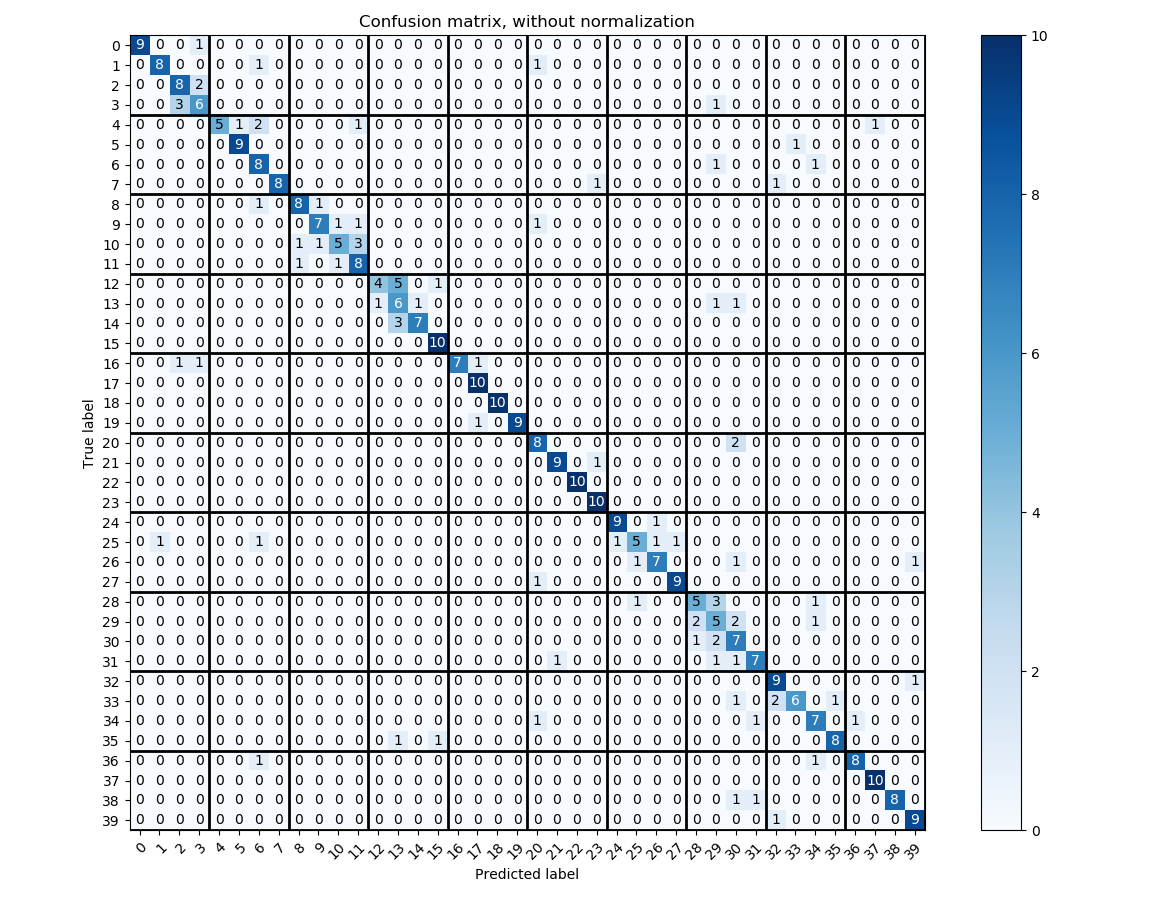
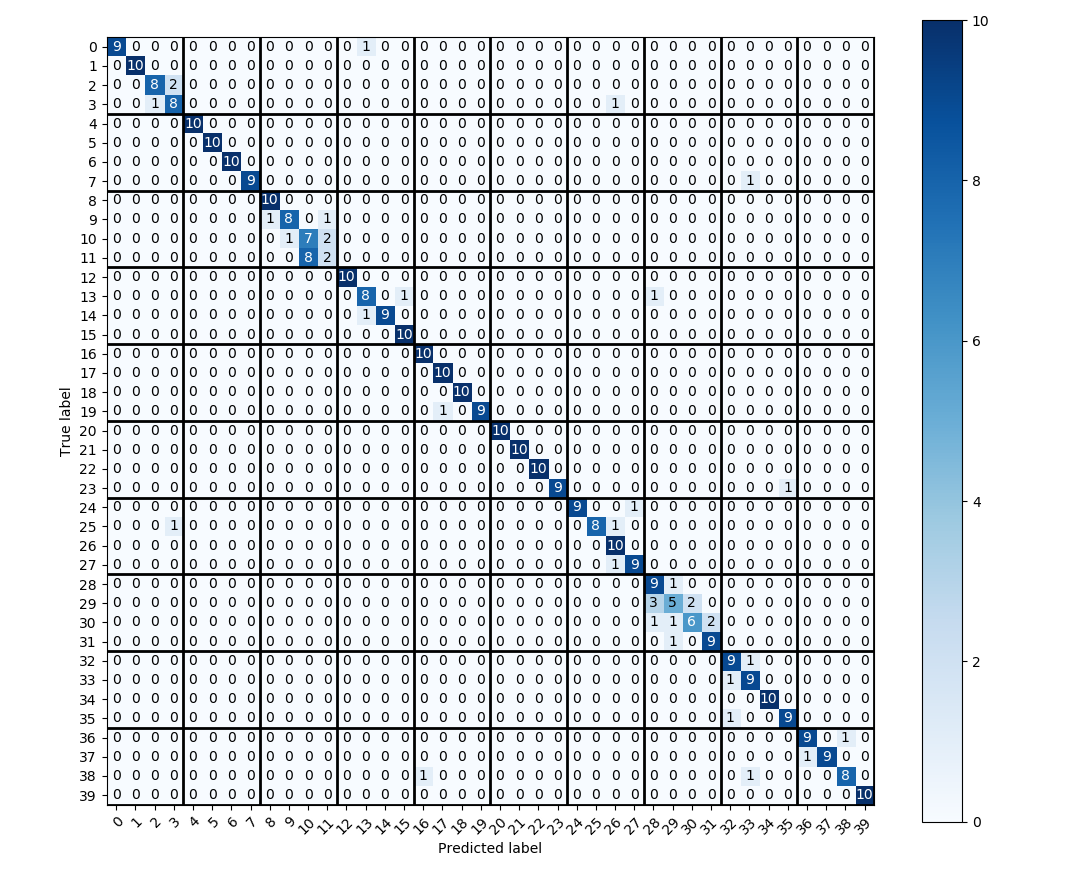
write network section

diff --git a/2-oracle/report/paper.tex b/2-oracle/report/paper.tex
@@ -45,6 +45,8 @@
 \usepackage{hyperref}
 \usepackage{cleveref}
 
+\usepackage{CJK}
+
 \crefformat{section}{\S#2#1#3} % see manual of cleveref, section 8.2.1
 \crefformat{subsection}{\S#2#1#3}
 \crefformat{subsubsection}{\S#2#1#3}
@@ -188,8 +190,52 @@ We select 10 images from each micro categories to form the validation set.
 Eventually, we end up tripling the size of the dataset with 9120 training samples and 400 validation samples.
 
 \section{Character Recognition}
+We use two different methods to address the character recognition task for oracle bone characters.
+We first learn a deep convolutional neural network to recognize characters, then use the template matching method for the same task.
+
 % wzy
 \subsection{Convolutional Neural Network}
+The deep neural network for learning the oracle bone characters has the structure in Figure~\ref{fig:network}.
+
+\begin{figure}[h]
+	\centering
+	\includegraphics[width=\linewidth]{fig/network.png}
+	\caption{Structure of the DNN}
+	\label{fig:network}
+\end{figure}
+
+The network first uses 2 convolutional layer with 16 filters, then apply max-pooling and batch normalization, then another 2 convolutional layer with 32 filters and pooling layer with normalization. Lastly, it uses one dense layer and an output layer. All trainable layers except the output layer uses ReLU activation and the output layer uses softmax activation.
+
+We use a simple stochastic gradient descent optimizer to train the network on the 9120 training samples and validate it on the remaining 400 samples.
+
+The network for 10 category classification achieves 98\% accuracy on the validation set at the save point, and the one for 40 category classification achieves 88.5\% accuracy on the validation set at the save point.
+Figure~\ref{fig:network-confusion} shows the confusion matrix for the validation results.
+
+\begin{figure}[h]
+	\centering
+	\begin{minipage}{\linewidth}
+		\subfigure[Confusion Matrix for 10 Category Classification]{
+			\includegraphics[width=\linewidth]{fig/confusion_oraclenet_conv10.png}
+			\label{fig:network-confusion-10}
+		}
+	\end{minipage}
+	\begin{minipage}{\linewidth}
+		\hspace{-2em}
+		\subfigure[Confusion Matrix for 40 Category Classification]{
+			\includegraphics[width=1.15\linewidth]{fig/confusion_oraclenet_conv40.png}
+			\label{fig:network-confusion-40}
+		}
+	\end{minipage}
+	\caption{Validation Results}
+	\label{fig:network-confusion}
+\end{figure}
+
+In Figure~\ref{fig:network-confusion-10}, we can see the classification for 10 macro category is quite accurate, only 7 samples out of 400 is miss-classified.
+In Figure~\ref{fig:network-confusion-40}, we use solid lines to separate 10 macro categories among 40 micro categories.
+We can see the mistakes made between macro categories is very low and we can use this model for the macro classification task with 98\% accuracy as well.
+Most mistakes are made within the macro category.
+For example, it miss-classifies many samples for variants of the 3rd and 8th macro categories.
+
 % ljy
 \subsection{Template Matching}
 % ljy
